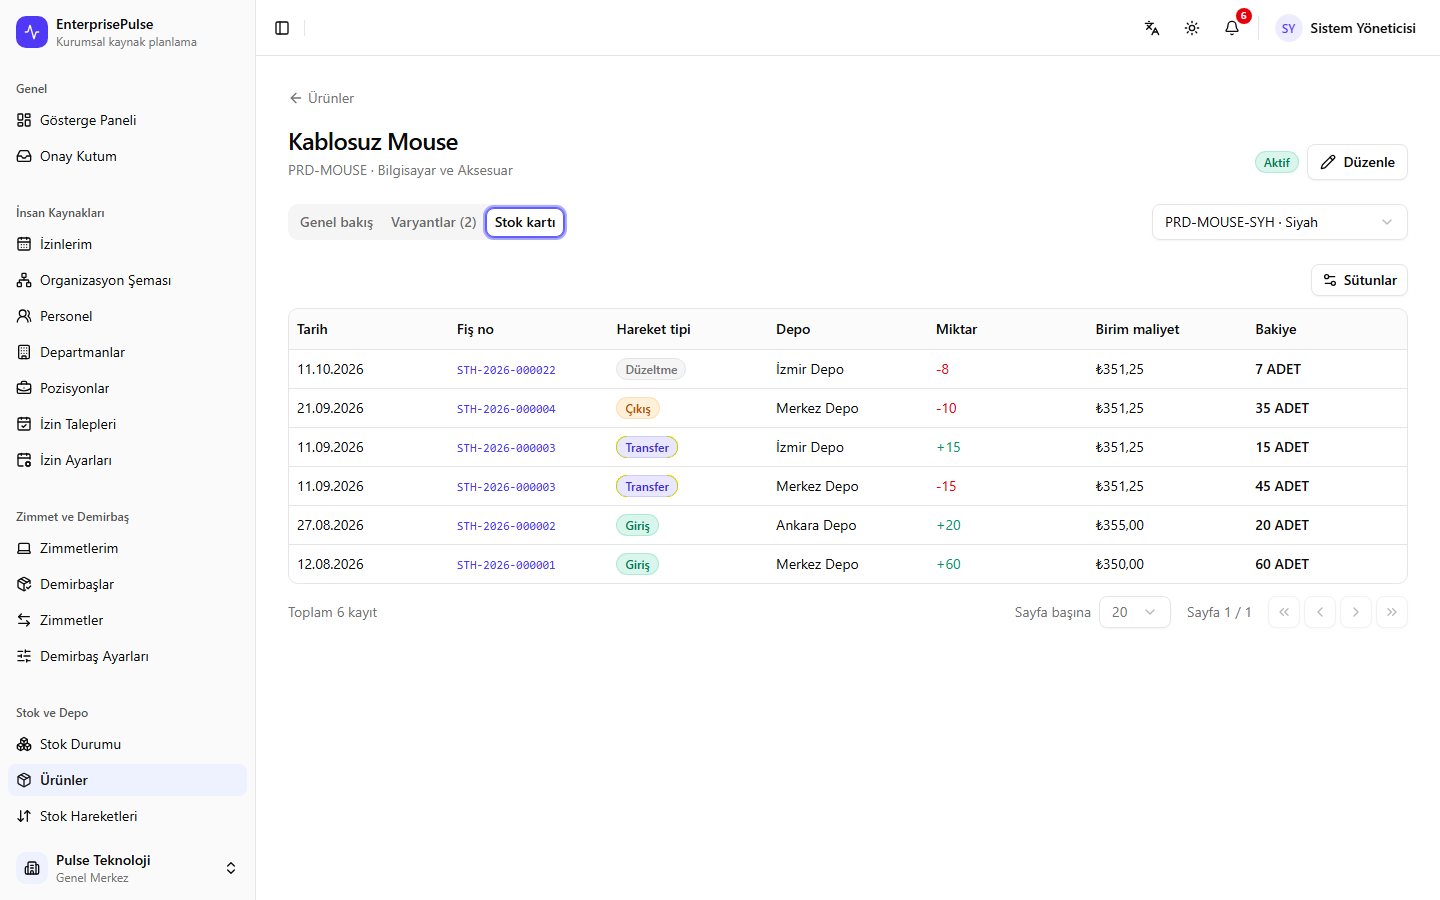
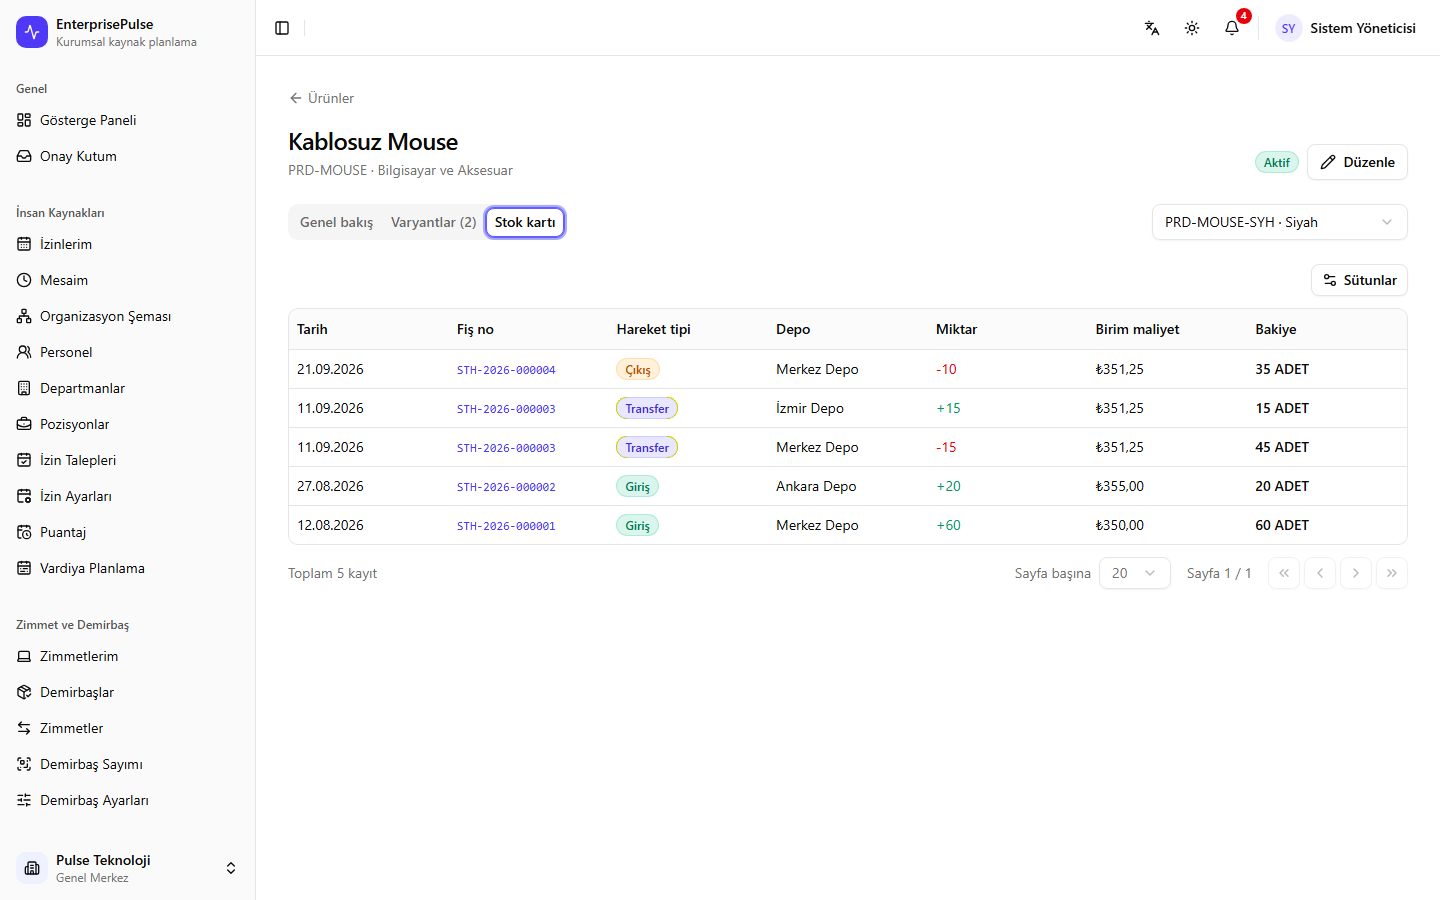
docs: screenshots and notes for attendance, counts and scanning

diff --git a/README.md b/README.md
@@ -27,17 +27,26 @@ React 19 + Vite ile yazılmış, Türkçe / İngilizce, açık / koyu temalı te
 | **Stok kartı:** her hareketin bakiyesi ve birim maliyeti        | **Demirbaş kartı:** QR etiket, zimmet durumu, net defter değeri          |
 | ![Amortisman](docs/screenshots/asset-depreciation.png)          | ![Organizasyon şeması](docs/screenshots/org-chart.png)                   |
 | **Amortisman tablosu:** yıllık ve birikmiş amortisman           | **Organizasyon şeması:** yönetici hiyerarşisi                            |
+| ![Puantaj](docs/screenshots/timesheet.png)                      | ![Vardiya planı](docs/screenshots/shift-plan.png)                        |
+| **Puantaj:** geç kalma, devamsızlık, izin ve fazla mesai        | **Vardiya planı:** haftalık plan, gece vardiyası, önceki haftayı kopyala |
+| ![Demirbaş sayımı](docs/screenshots/asset-count.png)            | ![Gösterge paneli](docs/screenshots/dashboard.png)                       |
+| **Demirbaş sayımı:** QR / kamera ile okutma, fark raporu        | **Gösterge paneli:** yetkiye göre KPI'lar, kritik stok                   |
 
 ## Özellikler
 
 - **Platform:** giriş, iki adımlı doğrulama (TOTP), şirket ve şube değiştirme, kullanıcı / rol / izin yönetimi,
   denetim kaydı, Socket.IO ile anlık bildirimler, onay kutusu, ayarlar (para birimi, kur, KDV, birim, numaralandırma, onay akışları).
+- **Gösterge paneli:** kullanıcının yetkilerine göre İK, zimmet ve stok KPI'ları, kritik stok listesi; personel için
+  kalan izin hakkı ve onay bekleyen zimmetler.
 - **İnsan Kaynakları:** personel kartı, departman ve pozisyonlar, organizasyon şeması, izin talebi ve çok adımlı onay,
-  "İzinlerim" self-servis ekranı.
+  "İzinlerim" ve "Mesaim" (giriş-çıkış) self-servis ekranları, aylık puantaj çizelgesi (İK düzeltmesi, Excel'e aktarma),
+  vardiya tanımları ve haftalık vardiya planı.
 - **Zimmet ve Demirbaş:** demirbaş kartı, QR etiket, zimmet / iade / devir, yazdırılabilir zimmet tutanağı ve elektronik onay,
-  bakım kaydı, amortisman tablosu, "Zimmetlerim" self-servis ekranı.
+  bakım kaydı, amortisman tablosu, QR ile demirbaş sayımı ve yazdırılabilir fark raporu, "Zimmetlerim" self-servis ekranı.
 - **Stok ve Depo:** stok durumu ve kritik stok filtresi, ürün ve varyantlar, stok kartı, lot ve seri numaraları,
-  giriş / çıkış / transfer / düzeltme fişleri, yazdırılabilir fiş, stok sayımı, depo ve kategori ayarları.
+  giriş / çıkış / transfer / düzeltme fişleri, yazdırılabilir fiş, barkod okutarak stok sayımı, depo ve kategori ayarları.
+- **Barkod ve QR okutma:** USB okuyucu (klavye gibi yazar) veya tarayıcı destekliyorsa telefon / bilgisayar kamerası
+  (yerleşik `BarcodeDetector` API'si, ek kütüphane yok).
 - **Her listede:** sunucu taraflı sayfalama, arama ve sıralama; sütun gizleme; filtrelenmiş tüm kayıtları Excel'e aktarma.
 - **Yetkiye duyarlı arayüz:** menü, butonlar ve sayfalar kullanıcının izinlerine göre gösterilir; yetkisiz adreslere girişte
   `/forbidden` sayfasına yönlendirilir.
